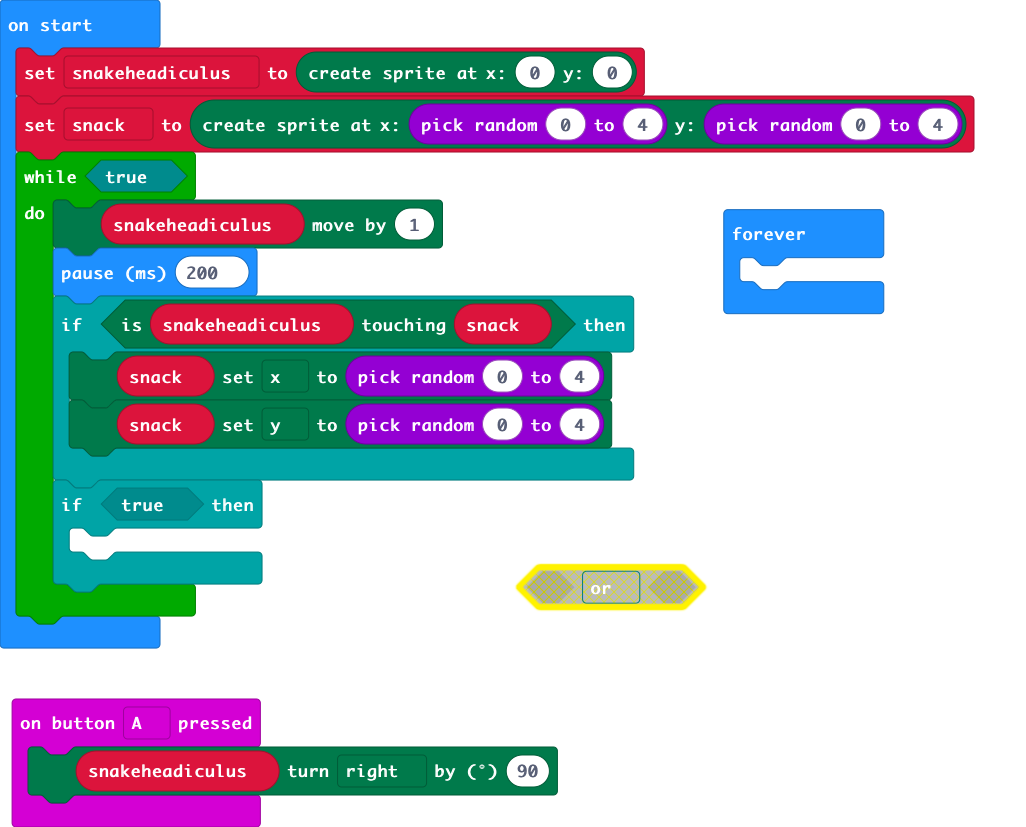
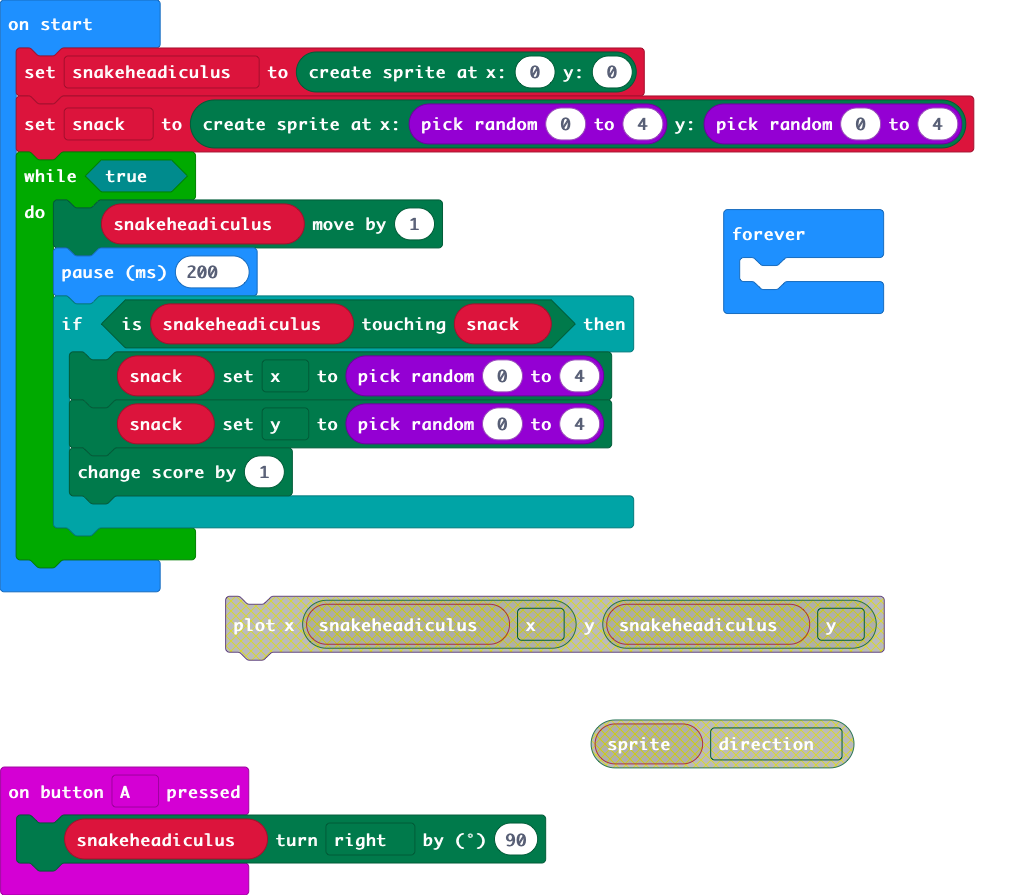
v3

diff --git a/main.ts b/main.ts
@@ -10,9 +10,7 @@ while (true) {
     if (snakeheadiculus.isTouching(snack)) {
         snack.set(LedSpriteProperty.X, randint(0, 4))
         snack.set(LedSpriteProperty.Y, randint(0, 4))
-    }
-    if (true) {
-    	
+        game.addScore(1)
     }
 }
 basic.forever(function () {
